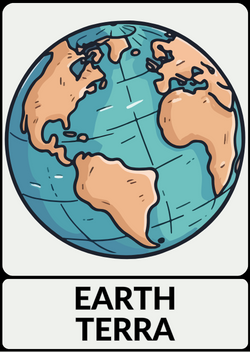
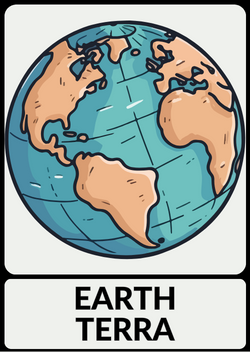
added cards images

Changed region(s): [[0.0, 0.0, 1.0, 1.0]]

diff --git a/src/data/space/space.js b/src/data/space/space.js
@@ -1,8 +1,8 @@
 export default {
   name: 'Space',
   items: [
-    { id: 'alien', image: 'https://www.serebii.net/pokemongo/pokemon/001.png', bgColor: '#339933' },
-    { id: 'ivysaur', image: 'https://www.serebii.net/pokemongo/pokemon/002.png', bgColor: '#339933' },
+    { id: 'backcard', image: 'images/backcard.png', bgColor: '#339933' },
+    { id: 'earth', image: 'images/earth.png', bgColor: '#339933' },
     { id: 'venusaur', image: 'https://www.serebii.net/pokemongo/pokemon/003.png', bgColor: '#339933' },
     { id: 'charmander', image: 'https://www.serebii.net/pokemongo/pokemon/004.png', bgColor: '#F05032' },
     { id: 'charmeleon', image: 'https://www.serebii.net/pokemongo/pokemon/005.png', bgColor: '#F05032' },
